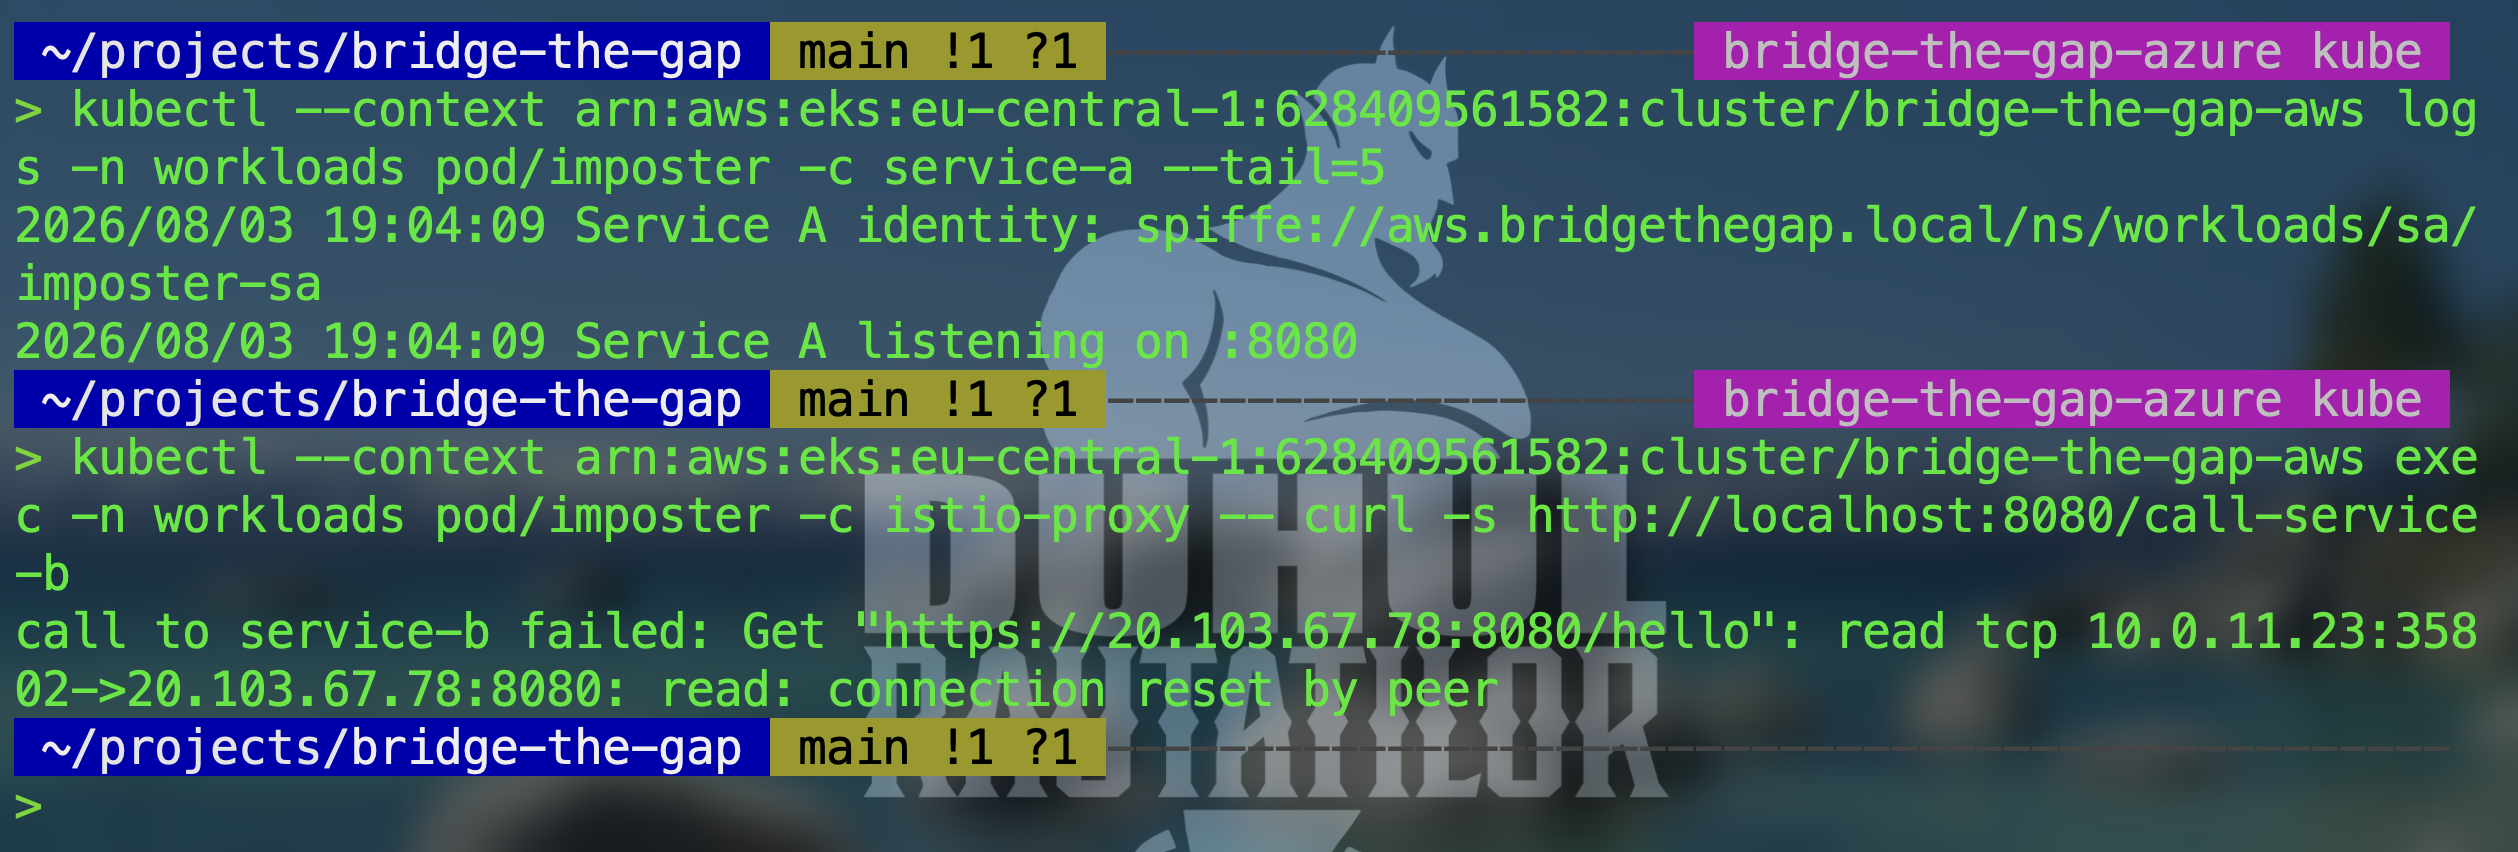
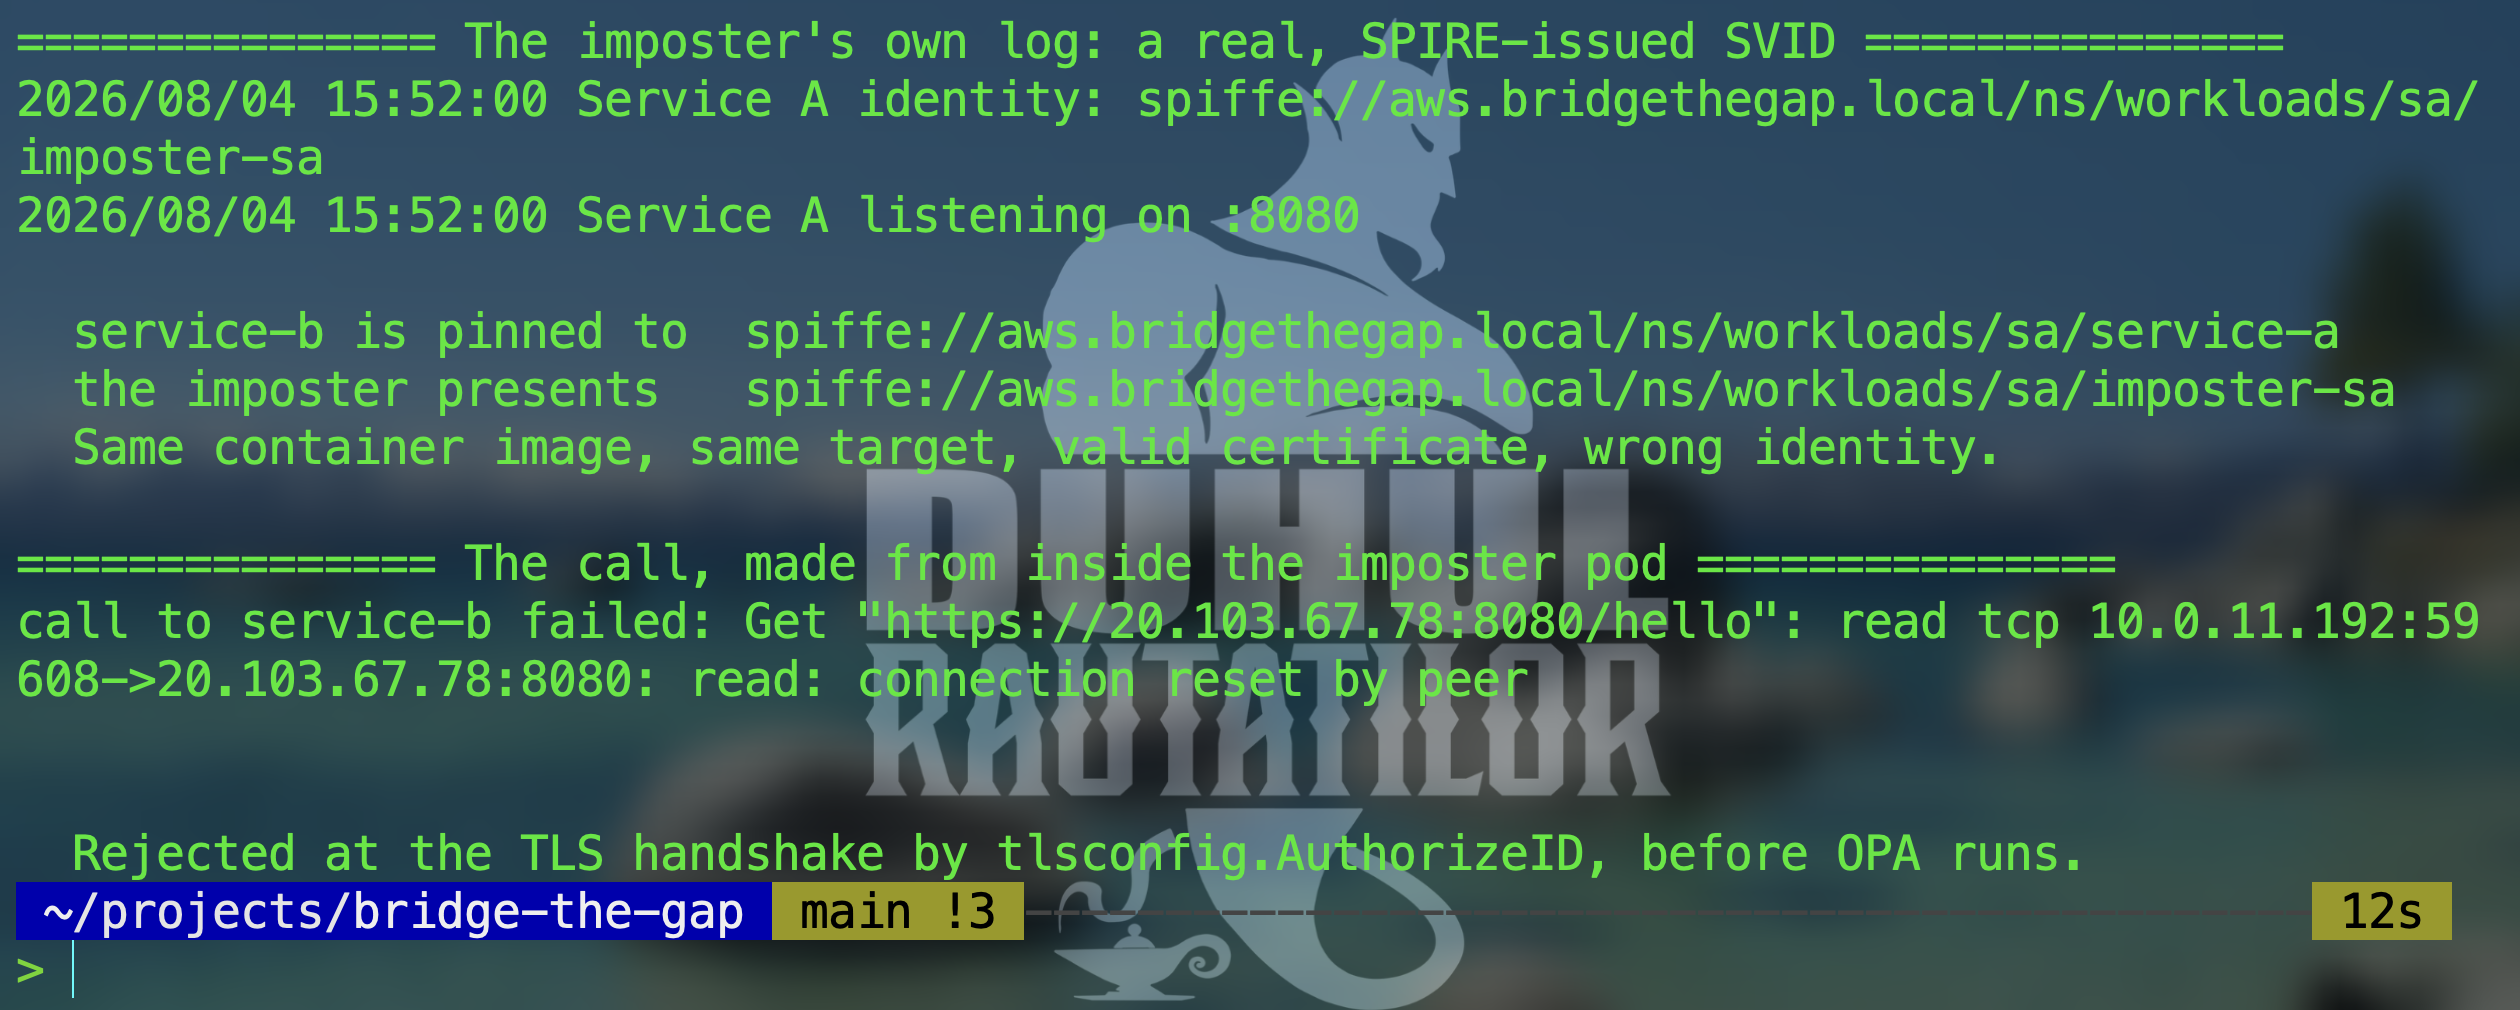
docs: retake stale evidence for ClusterSPIFFEID state, CI workflow OIDC proof and identity spoofing; drop the SVID certificate screenshot that predated the TTL reduction

diff --git a/README.md b/README.md
@@ -240,14 +240,10 @@ The initial plan was to let Envoy terminate mTLS for this call, using Istio's SP
 
 ## Proof: Successful Authenticated Call
 
-**The real certificate served by Service B**, extracted directly from the network, not from application code or logs. Note the SPIFFE URI in the Subject Alternative Name and a short validity window (currently configured via `defaultX509SvidTTL = "30m"` in `spire.tf`, reduced from an earlier `2h` value), not months or years:
+**The certificate Service B actually serves**, extracted from the network rather than read out of application code or logs, is captured further down this section together with both service identities and the authenticated call itself. Note the SPIFFE URI in its Subject Alternative Name, and a validity window of thirty minutes rather than months or years — `defaultX509SvidTTL = "30m"` in `spire.tf`, reduced from an earlier `2h`.
 
-<details>
-<summary>Show screenshot</summary>
+An earlier screenshot sat here showing a four-hour window, captured before that reduction. It was removed rather than left in place: a stale screenshot that contradicts the configuration it is supposed to demonstrate is worse than no screenshot, because a reader has no way to tell which one is current.
 
-![Real SVID certificate: SPIFFE SAN + short validity](docs/images/03-real-svid-certificate.png)
-
-</details>
 
 
 <details>
@@ -384,12 +380,6 @@ Service B tore down the connection during the TLS handshake itself, before the H
 <p align="right"><a href="#top">back to top ↑</a></p>
 
 
-<details>
-<summary>Show screenshot</summary>
-
-![evidence](docs/images/25b-final-negative-test-identity-spoofing.png)
-
-</details>
 
 ## Bonus Challenge 1: Workload Attestation
 
